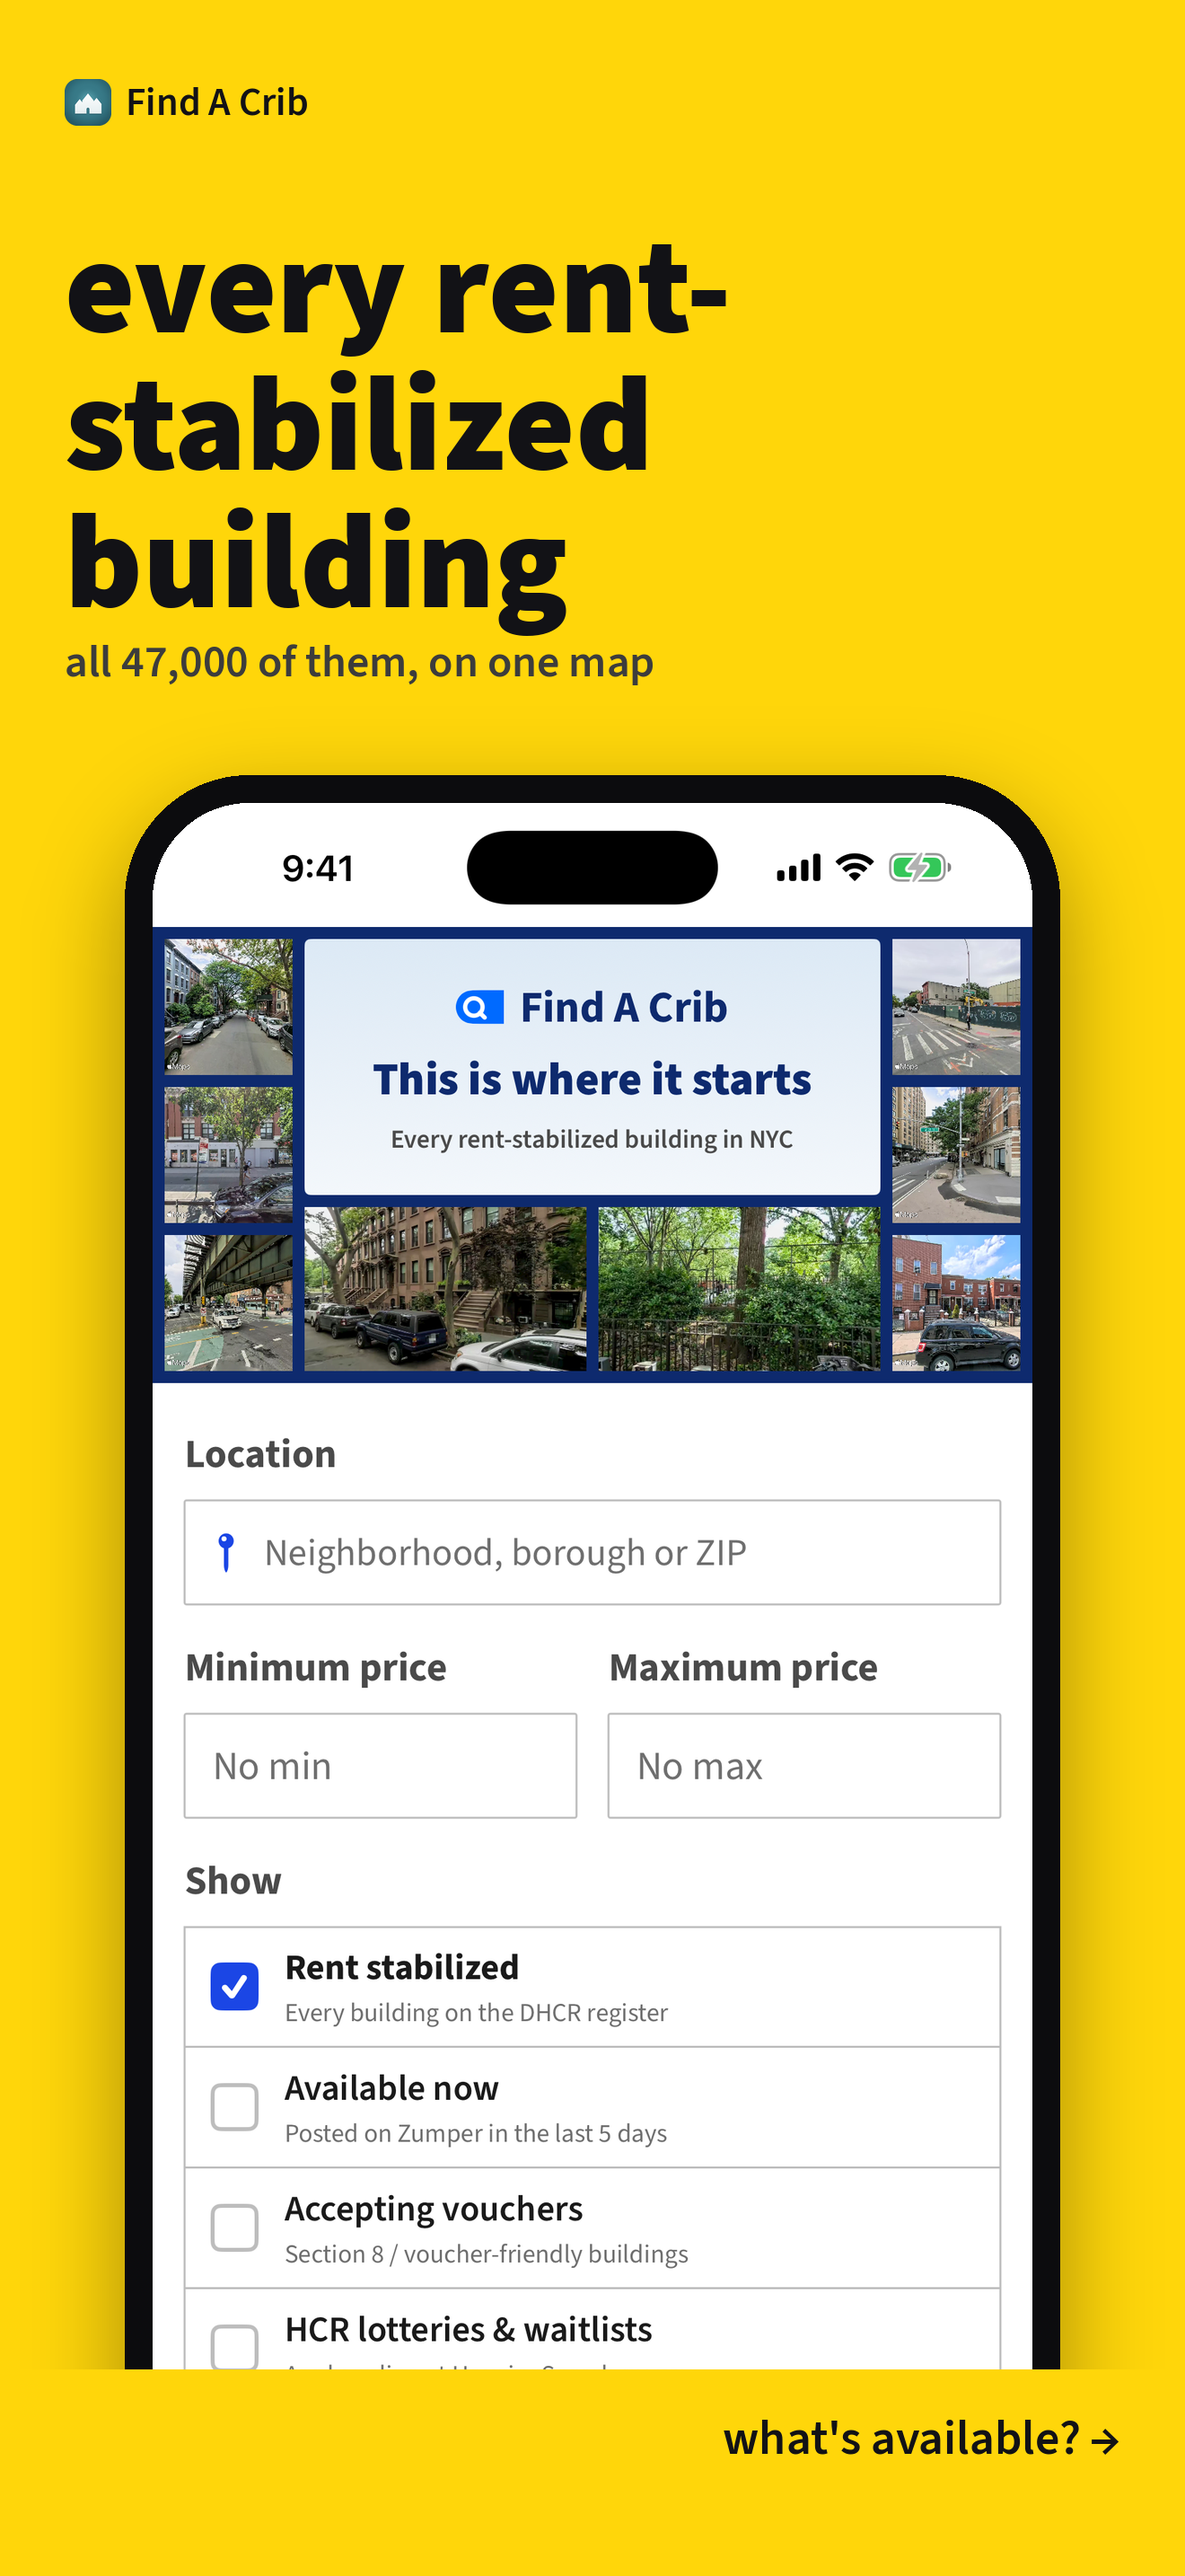
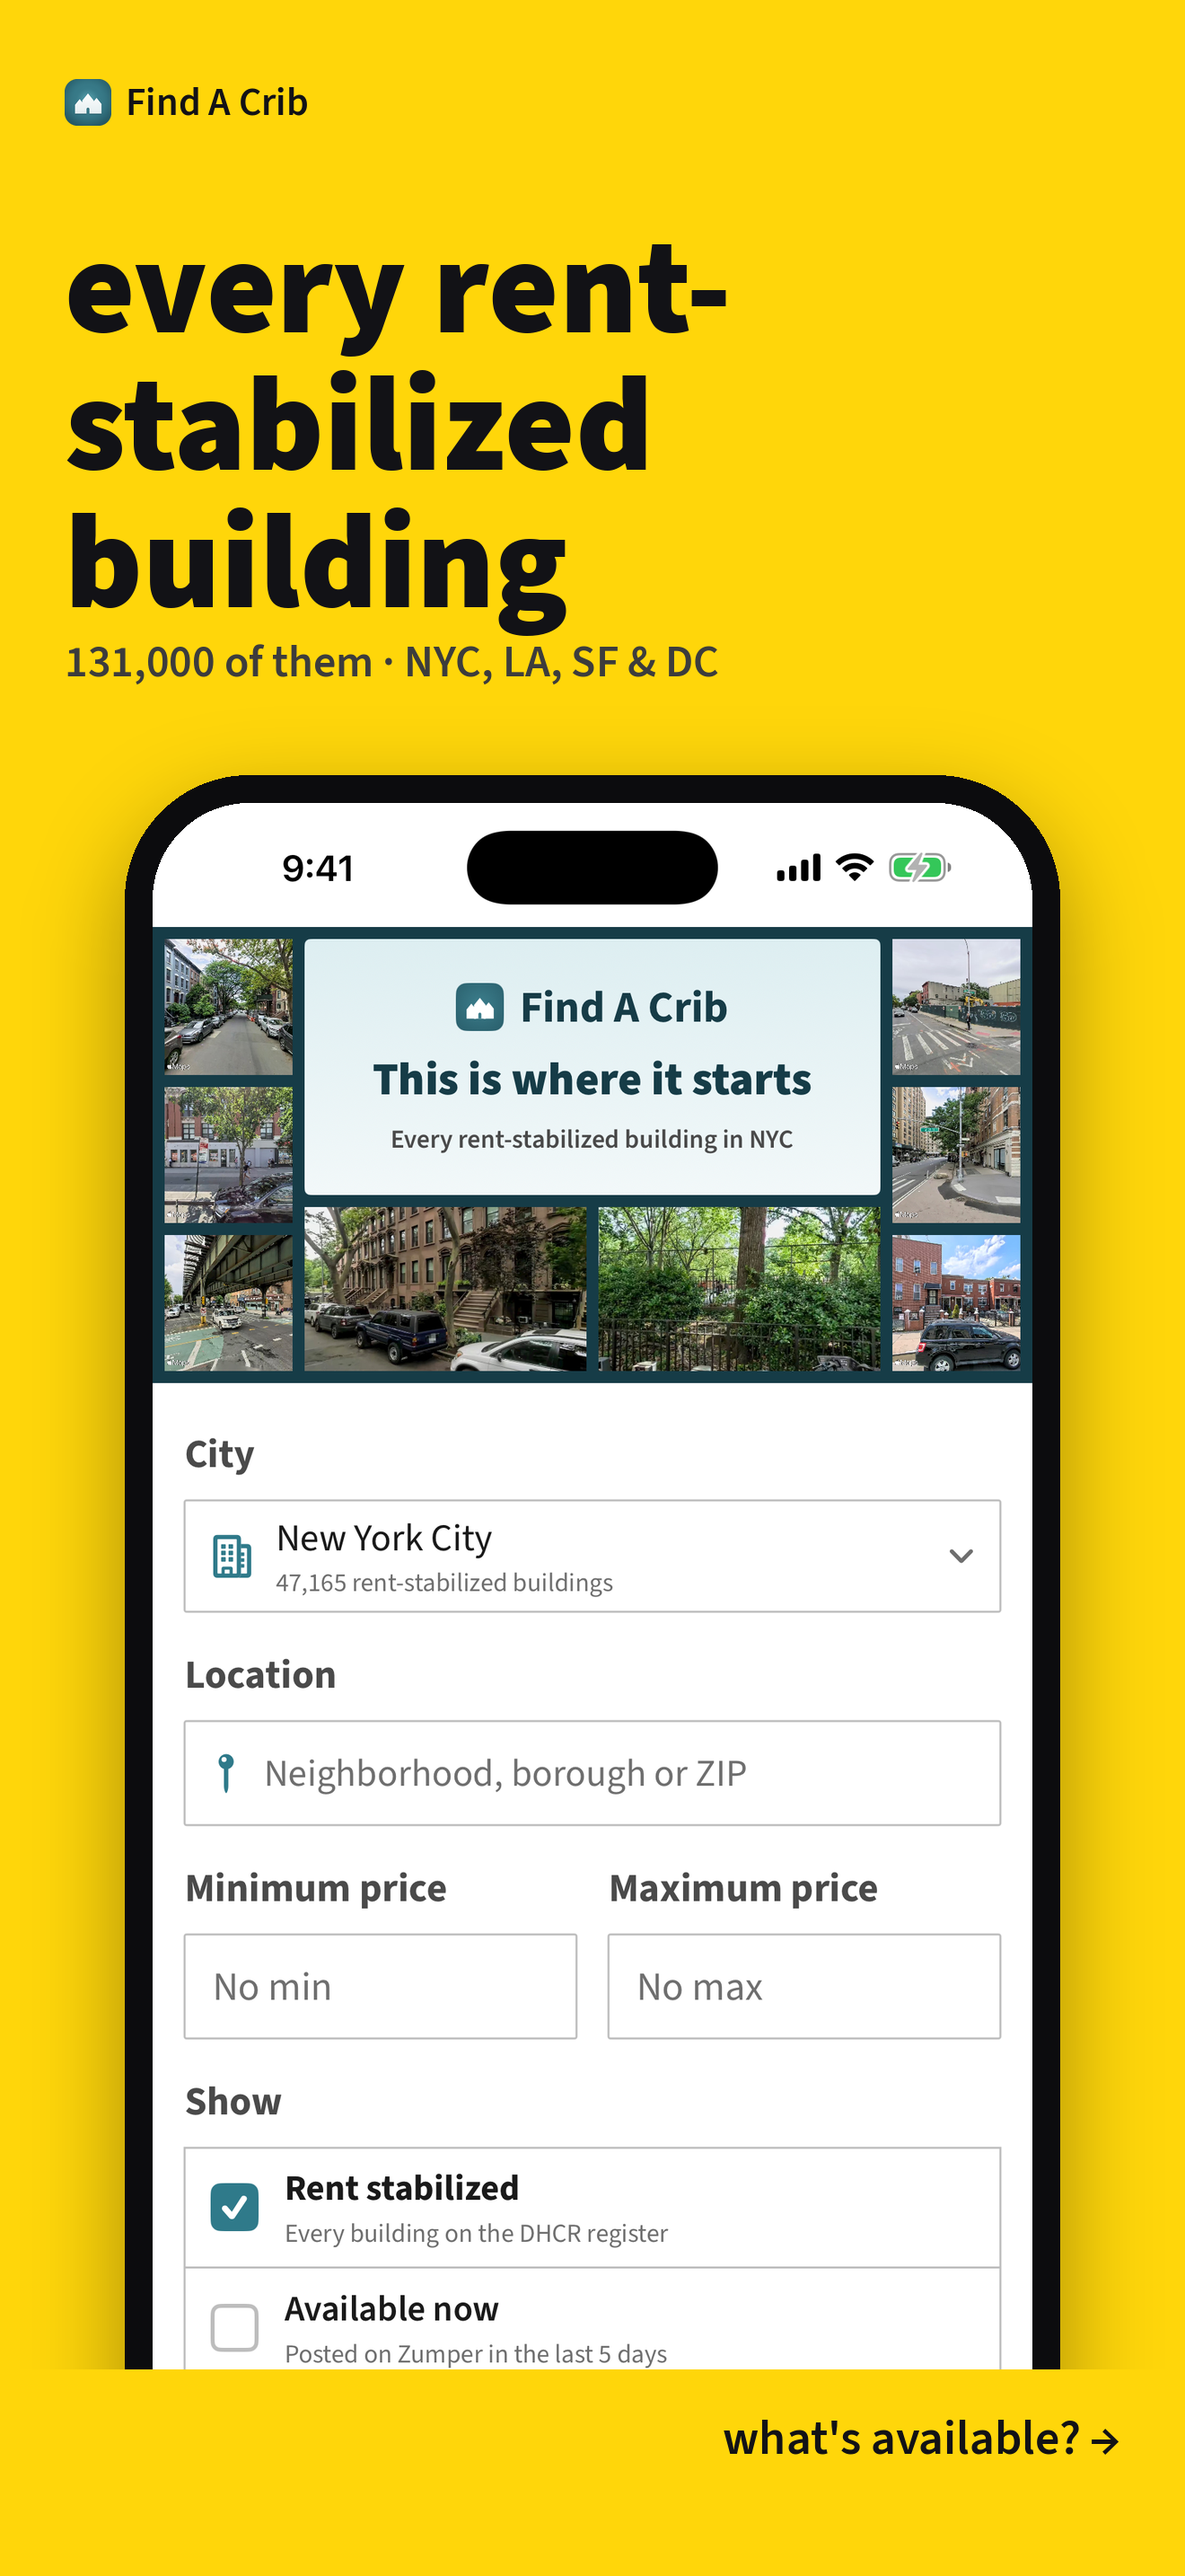
Show the current app in the App Store screenshots and the iMessage preview
The App Store panels and the findacrib.com link card still showed the app as
it looked on 9/2: the old navy/royal-blue chrome, NYC only, "all 47,000 of
them". The app has since gone teal and covers four cities.

- Recaptured the five raw screens (search, Brooklyn results, map, a building,
  HCR lotteries) from the current build on an iPhone 17 Pro Max simulator
  with a clean 9:41 status bar. The building is 172 Union St; the first
  Brooklyn listing's photo is all scaffolding.
- make_screenshots.py keeps the house layout but takes its ink from the app's
  teal (SE.navy / SE.royal), and panel 1 now says 131,000 buildings across
  NYC, LA, SF & DC (47,165 + 67,511 + 12,297 + 4,316).
- og-image.png (what iMessage, Slack and Facebook show for a findacrib.com
  link) is rebuilt around two real app screens beside the brand, the cities
  and the domain. The old card said NYC and listed the five boroughs, on
  every city page too.
- og:image / twitter:image get ?v=3 so iMessage fetches the new card instead
  of the one it cached.

Claude-Session: https://claude.ai/code/session_01Dh37C28snaGVjnvXAwCJn3

Changed region(s): [[0.1242, 0.3414, 0.8697, 0.931], [0.0621, 0.2483, 0.5902, 0.2793]]

diff --git a/index.html b/index.html
@@ -35,14 +35,14 @@
 <meta property="og:title" content="Rent-Stabilized NYC — Find A Crib" />
 <meta property="og:description" content="Find NYC rent-stabilized apartments across Manhattan, Bronx, Brooklyn, Queens & Staten Island." />
 <meta property="og:url" content="https://findacrib.com/" />
-<meta property="og:image" content="https://findacrib.com/og-image.png" />
+<meta property="og:image" content="https://findacrib.com/og-image.png?v=3" />
 <meta property="og:image:width" content="1200" />
 <meta property="og:image:height" content="630" />
 <!-- Twitter/X large card -->
 <meta name="twitter:card" content="summary_large_image" />
 <meta name="twitter:title" content="Rent-Stabilized NYC — Find A Crib" />
 <meta name="twitter:description" content="Find NYC rent-stabilized apartments across Manhattan, Bronx, Brooklyn, Queens & Staten Island." />
-<meta name="twitter:image" content="https://findacrib.com/og-image.png" />
+<meta name="twitter:image" content="https://findacrib.com/og-image.png?v=3" />
 <!-- structured data: site identity for richer search results -->
 <script type="application/ld+json">
 {"@context":"https://schema.org","@graph":[

diff --git a/scripts/make_og_image.py b/scripts/make_og_image.py
@@ -1,64 +1,84 @@
 #!/usr/bin/env python3
-"""Regenerate the social-share banner (og-image.png) for Find A Crib.
+"""Regenerate the social-share banner (og-image.png) for Find A Crib — the card
+iMessage, Slack and Facebook show for a findacrib.com link.
 
-1200x630, teal gradient, app icon + brand, subtitle, borough list,
-and a white pill with the domain. Run: python3 scripts/make_og_image.py
+1200x630: the icon's teal field on the left with the brand, one line of copy,
+the cities and the domain; on the right two real screens from the iPhone app
+(ios/marketing/raw, recaptured whenever the app's look changes) running off
+the bottom edge. Run: python3 scripts/make_og_image.py
 """
 import os
-from PIL import Image, ImageDraw, ImageFont
+from PIL import Image, ImageChops, ImageDraw, ImageFilter, ImageFont
 
 W, H = 1200, 630
-OUT = os.path.join(os.path.dirname(os.path.dirname(os.path.abspath(__file__))), "og-image.png")
+ROOT = os.path.dirname(os.path.dirname(os.path.abspath(__file__)))
+OUT = os.path.join(ROOT, "og-image.png")
+RAW = os.path.join(ROOT, "ios", "marketing", "raw")
+FONTS = os.path.join(ROOT, "ios", "FindACrib", "Resources", "Fonts")
+
+
+def font(name, size, fallback="/System/Library/Fonts/Supplemental/Arial Bold.ttf"):
+    p = os.path.join(FONTS, name)
+    return ImageFont.truetype(p if os.path.exists(p) else fallback, size)
+
 
 # diagonal gradient: lit teal (top-left) -> teal rim (bottom-right), the icon's field
 c1 = (96, 166, 178)   # the icon's lit teal (scripts/make_icon.py CORE)
-c2 = (40, 92, 105)    # its rim
-img = Image.new("RGB", (W, H))
-px = img.load()
-for y in range(H):
-    for x in range(W):
-        t = (x / W + y / H) / 2
-        px[x, y] = (int(c1[0] + (c2[0]-c1[0])*t),
-                    int(c1[1] + (c2[1]-c1[1])*t),
-                    int(c1[2] + (c2[2]-c1[2])*t))
+c2 = (22, 60, 71)     # SE.navy, the app's chrome
+grad = ImageChops.add(Image.linear_gradient("L").rotate(90).resize((W, H)),
+                      Image.linear_gradient("L").resize((W, H)), scale=2)
+img = Image.composite(Image.new("RGB", (W, H), c2), Image.new("RGB", (W, H), c1), grad)
 d = ImageDraw.Draw(img, "RGBA")
 
-# subtle decorative dots
-import math
-def dot(cx, cy, r, a):
-    d.ellipse([cx-r, cy-r, cx+r, cy+r], fill=(255, 255, 255, a))
-for (cx, cy, r, a) in [(560,95,9,40),(700,150,16,30),(900,210,11,35),
-                       (1120,135,13,30),(165,470,12,30),(540,505,9,35),
-                       (1130,470,18,28),(890,430,10,30),(640,330,7,30)]:
-    dot(cx, cy, r, a)
-
-BOLD = "/Library/Fonts/Arial Bold.ttf"
-if not os.path.exists(BOLD):
-    BOLD = "/System/Library/Fonts/Supplemental/Arial Bold.ttf"
-REG = "/System/Library/Fonts/Supplemental/Arial.ttf"
-f_brand = ImageFont.truetype(BOLD, 76)
-f_sub   = ImageFont.truetype(BOLD, 52)
-f_boro  = ImageFont.truetype(REG, 34)
-f_pill  = ImageFont.truetype(BOLD, 32)
+f_brand = font("SourceSans3-Black.ttf", 64)
+f_head = font("SourceSans3-Bold.ttf", 50)
+f_city = font("SourceSans3-Semibold.ttf", 28, "/System/Library/Fonts/Supplemental/Arial.ttf")
+f_pill = font("SourceSans3-Bold.ttf", 30)
 
 # the app icon (scripts/make_icon.py) + brand
-_icon = Image.open(os.path.join(os.path.dirname(OUT), "icon-512.png")).convert("RGBA").resize((56, 56), Image.LANCZOS)
-img.paste(_icon, (104, 140), _icon)
-d.text((172, 130), "Find A Crib", font=f_brand, fill="white")
-# subtitle
-d.text((90, 255), "Find NYC rent-stabilized apartments", font=f_sub, fill="white")
-# borough list
-d.text((92, 332), "Manhattan  ·  Bronx  ·  Brooklyn  ·  Queens  ·  Staten Island",
-       font=f_boro, fill=(225, 228, 255, 255))
-# domain pill
-pill_text = "findacrib.com"
-tb = d.textbbox((0,0), pill_text, font=f_pill)
-tw, th = tb[2]-tb[0], tb[3]-tb[1]
-px0, py0 = 90, 470
-padx, pady = 28, 18
-d.rounded_rectangle([px0, py0, px0+tw+padx*2, py0+th+pady*2+8],
-                    radius=33, fill=(245, 247, 255, 255))
-d.text((px0+padx, py0+pady), pill_text, font=f_pill, fill=(60, 70, 210, 255))
+icon = Image.open(os.path.join(ROOT, "icon-512.png")).convert("RGBA").resize((68, 68), Image.LANCZOS)
+img.paste(icon, (72, 96), icon)
+d.text((156, 90), "Find A Crib", font=f_brand, fill="white")
 
-img.save(OUT, "PNG")
+y = 214
+for line in ["Every rent-stabilized", "building, on one map"]:
+    d.text((72, y), line, font=f_head, fill="white")
+    y += 60
+d.text((74, y + 22), "New York · Los Angeles · San Francisco · DC", font=f_city, fill=(214, 236, 240))
+
+# domain pill + App Store note
+pill = "findacrib.com"
+tw = d.textlength(pill, font=f_pill)
+d.rounded_rectangle([72, 470, 72 + tw + 56, 470 + 64], radius=32, fill=(255, 255, 255))
+d.text((100, 482), pill, font=f_pill, fill=(22, 60, 71))
+d.text((72 + tw + 80, 484), "+ iPhone app", font=f_pill, fill="white")
+
+
+def phone(path, w):
+    """A real screen as a frameless rounded card with a thin dark rim."""
+    shot = Image.open(path).convert("RGB")
+    h = int(w * shot.height / shot.width)
+    shot = shot.resize((w, h), Image.LANCZOS)
+    r, rim = int(w * 0.12), 6
+    card = Image.new("RGBA", (w + 2 * rim, h + 2 * rim), (0, 0, 0, 0))
+    ImageDraw.Draw(card).rounded_rectangle([0, 0, card.width - 1, card.height - 1], radius=r + rim, fill=(12, 20, 24, 255))
+    m = Image.new("L", (w, h), 0)
+    ImageDraw.Draw(m).rounded_rectangle([0, 0, w - 1, h - 1], radius=r, fill=255)
+    card.paste(shot, (rim, rim), m)
+    return card
+
+
+def place(canvas, card, x, y):
+    shadow = Image.new("RGBA", canvas.size, (0, 0, 0, 0))
+    s = Image.new("RGBA", card.size, (0, 0, 0, 0))
+    s.putalpha(card.split()[3].point(lambda v: int(v * 0.45)))
+    shadow.alpha_composite(s, (x, y + 18))
+    out = Image.alpha_composite(canvas.convert("RGBA"), shadow.filter(ImageFilter.GaussianBlur(22)))
+    out.alpha_composite(card, (x, y))
+    return out
+
+
+img = place(img, phone(os.path.join(RAW, "home.png"), 262), 668, 118)
+img = place(img, phone(os.path.join(RAW, "map.png"), 276), 900, 58)
+img.convert("RGB").save(OUT, "PNG", optimize=True)
 print("wrote", OUT, img.size)

diff --git a/ios/scripts/make_screenshots.py b/ios/scripts/make_screenshots.py
@@ -16,8 +16,8 @@ W, H = 1320, 2868
 YELLOW = (255, 214, 10)
 WHITE = (255, 255, 255)
 INK = (18, 18, 22)
-NAVY = (14, 42, 110)
-ROYAL = (27, 70, 229)
+NAVY = (22, 60, 71)     # SE.navy 0x163C47, the app's teal chrome
+ROYAL = (47, 122, 138)  # SE.royal 0x2F7A8A
 HERE = os.path.dirname(os.path.dirname(os.path.abspath(__file__)))
 RAW = os.path.join(HERE, "marketing", "raw")
 OUT = os.path.join(HERE, "marketing", "asc-screenshots")
@@ -126,7 +126,7 @@ def panel(n, name, bg, lines, subline, shot, cue_text=None, dev_w=980):
 
 if __name__ == "__main__":
     panel(1, "home", YELLOW, ["every rent-", "stabilized", "building"],
-          "all 47,000 of them, on one map", os.path.join(RAW, "home.png"), "what's available? →")
+          "131,000 of them · NYC, LA, SF & DC", os.path.join(RAW, "home.png"), "what's available? →")
     panel(2, "results", WHITE, ["what's for", "rent right", "now"],
           "asking rents posted in the last 5 days", os.path.join(RAW, "results.png"), "see it on the map →")
     panel(3, "map", YELLOW, ["search the", "block you", "want"],
